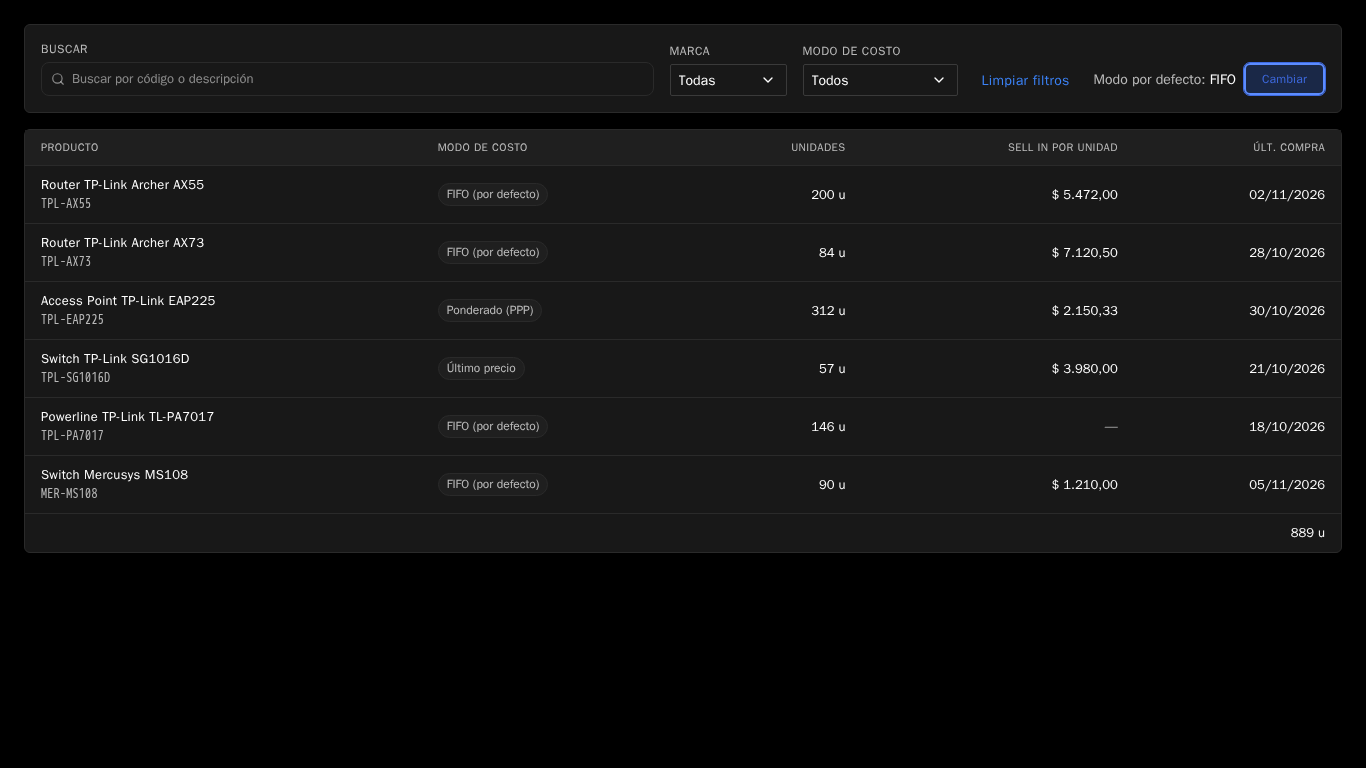
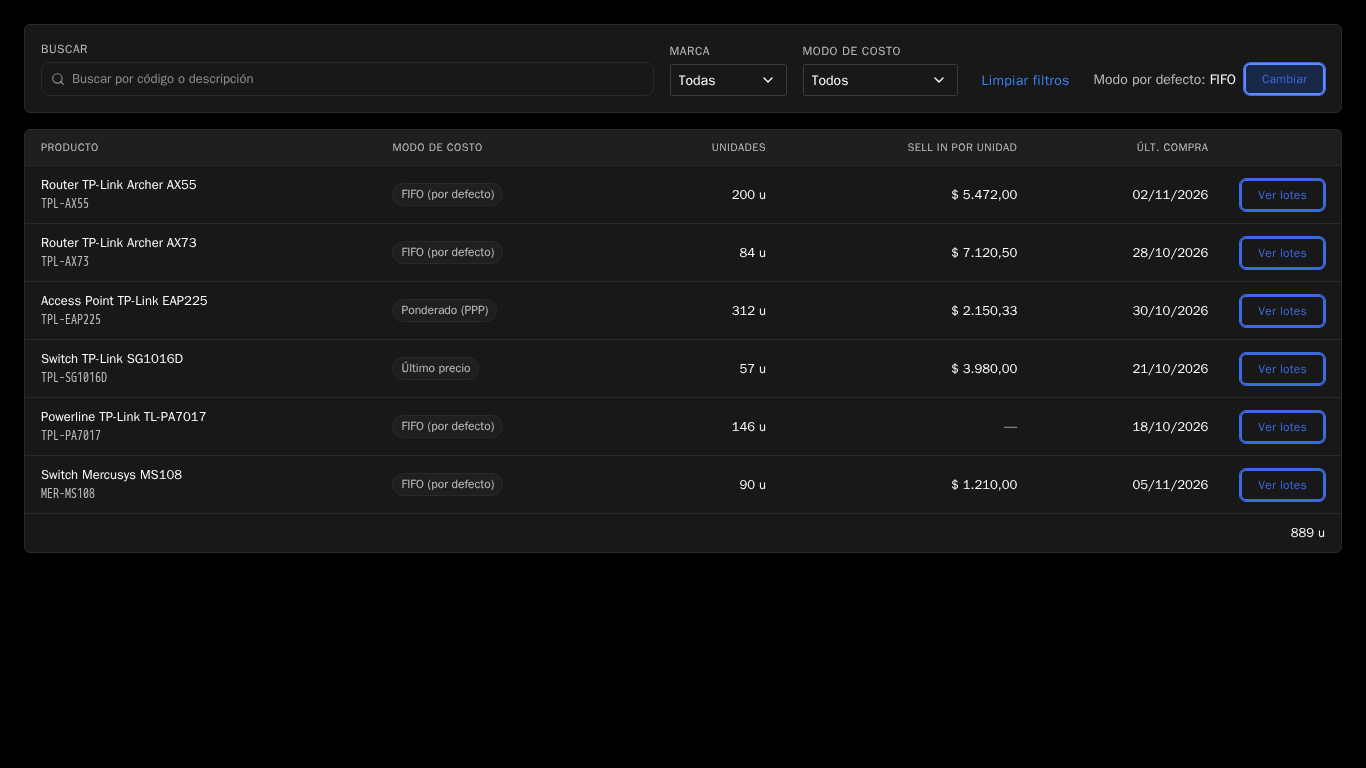
feat(sell-in): sortable columns and a visible Ver lotes action on the Productos tab
Each column header of the Productos list sorts it (ascending, then
descending; rows without sell in per unit last) and every row has a
'Ver lotes' button instead of the product name being a hidden button.

diff --git a/frontend/src/components/sellIn/SellInProductosCosto.jsx b/frontend/src/components/sellIn/SellInProductosCosto.jsx
@@ -1,4 +1,5 @@
 import { useEffect, useState } from 'react';
+import { ChevronDown, ChevronUp } from 'lucide-react';
 import SearchInput from '../SearchInput';
 import { usePermisos } from '../../contexts/PermisosContext';
 import { sellInLotesAPI } from '../../services/sellInAPI';
@@ -32,6 +33,21 @@ const normalizar = (texto) =>
 
 const comparaTexto = (a, b) => a.localeCompare(b, 'es', { sensitivity: 'base' });
 
+/** The sortable columns: how each one compares two rows; a row with no value goes last in both directions. */
+const COLUMNAS = [
+  { key: 'producto', label: 'Producto', valor: (x) => x.descripcion ?? x.codigo ?? '', compara: comparaTexto },
+  { key: 'modo', label: 'Modo de costo', valor: (x) => modoLabel(x.modo), compara: comparaTexto },
+  { key: 'unidades', label: 'Unidades', num: true, valor: (x) => x.unidades, compara: (a, b) => a - b },
+  {
+    key: 'sell_in_unit',
+    label: 'Sell in por unidad',
+    num: true,
+    valor: (x) => (x.sell_in_unit == null ? null : Number(x.sell_in_unit)),
+    compara: (a, b) => a - b,
+  },
+  { key: 'ultima_compra', label: 'Últ. compra', num: true, valor: (x) => x.ultima_compra, compara: comparaTexto },
+];
+
 function filtrar(productos, filtros) {
   const q = normalizar(filtros.q.trim());
   return productos.filter(
@@ -40,6 +56,18 @@ function filtrar(productos, filtros) {
       (!filtros.marca || x.marca === filtros.marca) &&
       (!filtros.modo || (filtros.modo === SIN_MODO ? x.modo == null : x.modo === filtros.modo)),
   );
+}
+
+function ordenar(productos, orden) {
+  const columna = COLUMNAS.find((c) => c.key === orden?.key);
+  if (!columna) return productos;
+  const signo = orden.dir === 'asc' ? 1 : -1;
+  return [...productos].sort((a, b) => {
+    const va = columna.valor(a);
+    const vb = columna.valor(b);
+    if (va == null || vb == null) return (va == null) - (vb == null);
+    return signo * columna.compara(va, vb);
+  });
 }
 
 /** The saved default mode, read on mount and with each `version`; null while unread or when it cannot be read. */
@@ -63,7 +91,7 @@ function useModoPorDefecto(version) {
  * units left in its lots, with its "Modo de costo", units, what the next sale takes per unit and its latest purchase,
  * and the total units under it. A toolbar searches by código/descripción and filters by Marca and Modo de costo,
  * client side: the endpoint already computes the whole list in a fixed number of queries, so a server filter would not
- * save it work. A row's product opens its lots and cost mode (`onVer(fila)`). The toolbar also
+ * save it work. The headers sort; "Ver lotes" opens a product's lots and cost mode (`onVer(fila)`). The toolbar also
  * shows the default mode and, for an admin, "Cambiar" opens its modal. A new `version` reads both again.
  *
  * @param {object} props
@@ -75,6 +103,7 @@ export default function SellInProductosCosto({ onVer, version = 0 }) {
   const [read, setRead] = useState({ status: 'loading', productos: [] });
   const [attempt, setAttempt] = useState(0);
   const [filtros, setFiltros] = useState(FILTROS_VACIOS);
+  const [orden, setOrden] = useState(null); // null: the server's order (description, then code)
   const [porDefecto, setPorDefecto] = useModoPorDefecto(version);
   const [editandoDefecto, setEditandoDefecto] = useState(false);
 
@@ -90,6 +119,8 @@ export default function SellInProductosCosto({ onVer, version = 0 }) {
   }, [version, attempt]);
 
   const cambiarFiltros = (cambios) => setFiltros((prev) => ({ ...prev, ...cambios }));
+  const ordenarPor = (key) =>
+    setOrden((prev) => (prev?.key === key ? { key, dir: prev.dir === 'asc' ? 'desc' : 'asc' } : { key, dir: 'asc' }));
 
   if (read.status === 'loading' && read.productos.length === 0) {
     return (
@@ -120,7 +151,7 @@ export default function SellInProductosCosto({ onVer, version = 0 }) {
   }
 
   const marcas = [...new Set(read.productos.map((x) => x.marca).filter(Boolean))].sort(comparaTexto);
-  const visibles = filtrar(read.productos, filtros);
+  const visibles = ordenar(filtrar(read.productos, filtros), orden);
   const total = visibles.reduce((sum, x) => sum + x.unidades, 0);
 
   return (
@@ -186,16 +217,29 @@ export default function SellInProductosCosto({ onVer, version = 0 }) {
           <table className={styles.table} aria-label="Productos con lotes de sell in">
             <thead>
               <tr>
-                <th scope="col">Producto</th>
-                <th scope="col">Modo de costo</th>
-                <th scope="col" className={styles.num}>
-                  Unidades
-                </th>
-                <th scope="col" className={styles.num}>
-                  Sell in por unidad
-                </th>
-                <th scope="col" className={styles.num}>
-                  Últ. compra
+                {COLUMNAS.map((columna) => {
+                  const activa = orden?.key === columna.key;
+                  return (
+                    <th
+                      key={columna.key}
+                      scope="col"
+                      className={columna.num ? styles.num : undefined}
+                      aria-sort={activa ? (orden.dir === 'asc' ? 'ascending' : 'descending') : undefined}
+                    >
+                      <button type="button" className={styles.sort} onClick={() => ordenarPor(columna.key)}>
+                        {columna.label}
+                        {activa &&
+                          (orden.dir === 'asc' ? (
+                            <ChevronUp size={12} aria-hidden="true" />
+                          ) : (
+                            <ChevronDown size={12} aria-hidden="true" />
+                          ))}
+                      </button>
+                    </th>
+                  );
+                })}
+                <th scope="col" className={styles.acciones}>
+                  <span className={styles.srOnly}>Acciones</span>
                 </th>
               </tr>
             </thead>
@@ -203,15 +247,10 @@ export default function SellInProductosCosto({ onVer, version = 0 }) {
               {visibles.map((fila) => (
                 <tr key={fila.item_id}>
                   <td>
-                    <button
-                      type="button"
-                      className={styles.producto}
-                      aria-label={`Ver lotes y modo de costo de ${fila.descripcion ?? fila.codigo}`}
-                      onClick={() => onVer(fila)}
-                    >
+                    <span className={styles.producto}>
                       <span className={styles.nombre}>{fila.descripcion}</span>
                       <span className={styles.codigo}>{fila.codigo}</span>
-                    </button>
+                    </span>
                   </td>
                   <td>
                     <span className={styles.pill}>{modoLabel(fila.modo)}</span>
@@ -219,6 +258,16 @@ export default function SellInProductosCosto({ onVer, version = 0 }) {
                   <td className={styles.num}>{formatEntero(fila.unidades)} u</td>
                   <td className={styles.num}>{formatMonto(fila.sell_in_unit, 'ARS')}</td>
                   <td className={styles.num}>{fecha(fila.ultima_compra)}</td>
+                  <td className={styles.acciones}>
+                    <button
+                      type="button"
+                      className="btn-tesla outline sm"
+                      aria-label={`Ver lotes y modo de costo de ${fila.descripcion ?? fila.codigo}`}
+                      onClick={() => onVer(fila)}
+                    >
+                      Ver lotes
+                    </button>
+                  </td>
                 </tr>
               ))}
             </tbody>

diff --git a/frontend/src/components/sellIn/SellInProductosCosto.test.jsx b/frontend/src/components/sellIn/SellInProductosCosto.test.jsx
@@ -3,7 +3,7 @@
  * its "Modo de costo" (FIFO by default), units, the next sale's sell in per unit and its latest purchase, read in one
  * request for the whole list. Owner, 2026-11-10: "No tengo botones, filtros, nada, cómo lo uso?" / "no tengo el modal
  * para setear el fifo, ppp, o ultimo ingreso como default": a toolbar with the default mode, search, Marca and Modo
- * filters (client side: the endpoint already reads the whole list).
+ * filters (client side: the endpoint already reads the whole list), sortable columns and a visible "Ver lotes".
  */
 import { describe, it, expect, vi, beforeEach } from 'vitest';
 import { render, screen, within, waitFor } from '@testing-library/react';
@@ -73,9 +73,9 @@ describe('SellInProductosCosto', () => {
     const t = await tabla();
     const filas = within(t).getAllByRole('row').slice(1);
     expect(filas.map((x) => within(x).getAllByRole('cell').map((c) => c.textContent))).toEqual([
-      ['Router TP-Link Archer AX55TPL-AX55', 'FIFO (por defecto)', '200 u', '$ 5.472,00', '02/11/2026'],
-      ['Access Point TP-Link EAP225TPL-EAP225', 'Ponderado (PPP)', '312 u', '$ 1.200,00', '15/10/2026'],
-      ['Switch Mercusys MS108MER-MS108', 'Último precio', '57 u', '—', '05/11/2026'],
+      ['Router TP-Link Archer AX55TPL-AX55', 'FIFO (por defecto)', '200 u', '$ 5.472,00', '02/11/2026', 'Ver lotes'],
+      ['Access Point TP-Link EAP225TPL-EAP225', 'Ponderado (PPP)', '312 u', '$ 1.200,00', '15/10/2026', 'Ver lotes'],
+      ['Switch Mercusys MS108MER-MS108', 'Último precio', '57 u', '—', '05/11/2026', 'Ver lotes'],
     ]);
     expect(within(t).getAllByRole('columnheader').map((x) => x.textContent)).toEqual([
       'Producto',
@@ -83,16 +83,19 @@ describe('SellInProductosCosto', () => {
       'Unidades',
       'Sell in por unidad',
       'Últ. compra',
+      'Acciones',
     ]);
     expect(screen.getByText('569 u')).toBeInTheDocument();
     expect(sellInLotesAPI.productos).toHaveBeenCalledTimes(1);
   });
 
-  it('opens a product from its row', async () => {
+  it('opens a product from its visible "Ver lotes" action', async () => {
     const onVer = vi.fn();
     render(<SellInProductosCosto onVer={onVer} />);
 
-    await userEvent.click(await screen.findByRole('button', { name: 'Ver lotes y modo de costo de Switch Mercusys MS108' }));
+    const boton = await screen.findByRole('button', { name: 'Ver lotes y modo de costo de Switch Mercusys MS108' });
+    expect(boton).toHaveTextContent('Ver lotes');
+    await userEvent.click(boton);
 
     expect(onVer).toHaveBeenCalledWith(PRODUCTOS[2]);
   });
@@ -161,6 +164,29 @@ describe('SellInProductosCosto', () => {
 
       await user.click(screen.getByRole('button', { name: 'Limpiar filtros' }));
       expect(nombres(await tabla())).toHaveLength(3);
+    });
+  });
+
+  describe('sorting', () => {
+    it.each([
+      ['Producto', ['Access Point', 'Router', 'Switch'], ['Switch', 'Router', 'Access Point']],
+      ['Modo de costo', ['Router', 'Access Point', 'Switch'], ['Switch', 'Access Point', 'Router']],
+      ['Unidades', ['Switch', 'Router', 'Access Point'], ['Access Point', 'Router', 'Switch']],
+      ['Sell in por unidad', ['Access Point', 'Router', 'Switch'], ['Router', 'Access Point', 'Switch']],
+      ['Últ. compra', ['Access Point', 'Router', 'Switch'], ['Switch', 'Router', 'Access Point']],
+    ])('sorts by %s, ascending then descending (no sell in last)', async (columna, asc, desc) => {
+      const user = userEvent.setup();
+      render(<SellInProductosCosto onVer={vi.fn()} />);
+      const t = await tabla();
+      const primeras = () => nombres(t).map((x) => x.split(' ').slice(0, x.startsWith('Access') ? 2 : 1).join(' '));
+
+      await user.click(within(t).getByRole('button', { name: columna }));
+      expect(primeras()).toEqual(asc);
+      expect(within(t).getByRole('columnheader', { name: columna })).toHaveAttribute('aria-sort', 'ascending');
+
+      await user.click(within(t).getByRole('button', { name: columna }));
+      expect(primeras()).toEqual(desc);
+      expect(within(t).getByRole('columnheader', { name: columna })).toHaveAttribute('aria-sort', 'descending');
     });
   });
 

diff --git a/frontend/src/components/sellIn/SellInProductosCosto.module.css b/frontend/src/components/sellIn/SellInProductosCosto.module.css
@@ -56,7 +56,8 @@
   text-decoration: underline;
 }
 
-.limpiar:focus-visible {
+.limpiar:focus-visible,
+.sort:focus-visible {
   outline: 2px solid var(--cf-accent-blue);
   outline-offset: 2px;
   border-radius: var(--radius-sm);
@@ -82,13 +83,51 @@
   color: var(--cf-text-primary);
 }
 
+.sort {
+  display: inline-flex;
+  align-items: center;
+  gap: var(--space-1);
+  padding: 0;
+  font: inherit;
+  letter-spacing: inherit;
+  text-transform: inherit;
+  color: inherit;
+  background: none;
+  border: 0;
+  cursor: pointer;
+}
+
+.sort:hover {
+  color: var(--cf-text-primary);
+}
+
+.acciones {
+  width: 1%;
+  text-align: right;
+  white-space: nowrap;
+}
+
+.srOnly {
+  position: absolute;
+  width: 1px;
+  height: 1px;
+  padding: 0;
+  margin: -1px;
+  overflow: hidden;
+  clip: rect(0, 0, 0, 0);
+  white-space: nowrap;
+  border: 0;
+}
+
 .card {
   background: var(--cf-bg-card);
   border: 1px solid var(--cf-border-default);
   border-radius: var(--radius-md);
 }
 
+/* Positioned so the visually hidden "Acciones" header scrolls with the table instead of widening the page. */
 .scroller {
+  position: relative;
   overflow-x: auto;
 }
 
@@ -133,23 +172,6 @@
   display: flex;
   flex-direction: column;
   gap: 2px;
-  padding: 0;
-  font: inherit;
-  text-align: left;
-  color: var(--cf-text-primary);
-  background: none;
-  border: none;
-  cursor: pointer;
-}
-
-.producto:hover .nombre {
-  text-decoration: underline;
-}
-
-.producto:focus-visible {
-  outline: 2px solid var(--cf-accent-blue);
-  outline-offset: 2px;
-  border-radius: var(--radius-base);
 }
 
 .codigo {

diff --git a/frontend/src/test/visual/sellInProductosCosto.visual.test.jsx b/frontend/src/test/visual/sellInProductosCosto.visual.test.jsx
@@ -1,6 +1,6 @@
 /**
  * Sell in's Productos list -- real CSS, real Chromium: at desktop width the toolbar (search, Marca, Modo de costo,
- * Limpiar filtros and the default mode with "Cambiar") is one row and the five columns fit the card
+ * Limpiar filtros and the default mode with "Cambiar") is one row and the columns with "Ver lotes" fit the card
  * without a horizontal scroll, in light and dark, and "Cambiar" opens the default-mode modal; at phone width only the
  * table scrolls, never the page.
  *

diff --git a/frontend/src/ayuda/sell-in-sell-out.md b/frontend/src/ayuda/sell-in-sell-out.md
@@ -95,7 +95,9 @@ Arriba de la lista hay una barra:
 
 El total de unidades de abajo suma solo los productos que se ven. Si ningún producto cumple los filtros, la lista lo dice.
 
-Tocá el nombre de un producto para abrir su **Costo de sell in**: sus lotes y la sección **Modo de costo**, donde se cambia el modo. Al confirmar un cambio, la lista se actualiza sola.
+Tocá el título de una columna (**Producto**, **Modo de costo**, **Unidades**, **Sell in por unidad** o **Últ. compra**) para ordenar por ella; un segundo toque invierte el orden. Los productos sin **Sell in por unidad** van siempre al final.
+
+**Ver lotes**, al final de cada fila, abre el **Costo de sell in** del producto: sus lotes y la sección **Modo de costo**, donde se cambia el modo. Al confirmar un cambio, la lista se actualiza sola.
 
 ### Modo de costo de un producto
 
@@ -185,7 +187,7 @@ Un **tactical** es un programa de una marca: sell in baja el costo, sell out sum
 
 ## Filtros y columnas
 
-Tacticals: tipo, marca, moneda, estado, vigencia y búsqueda. Grupos: nombre, filtros, productos alcanzados y campañas que lo usan. Productos: búsqueda por código o descripción, marca y modo de costo; columnas producto, modo de costo, unidades, sell in por unidad y última compra.
+Tacticals: tipo, marca, moneda, estado, vigencia y búsqueda. Grupos: nombre, filtros, productos alcanzados y campañas que lo usan. Productos: búsqueda por código o descripción, marca y modo de costo; columnas producto, modo de costo, unidades, sell in por unidad y última compra, todas ordenables.
 
 ## Botones y acciones
 
@@ -196,6 +198,7 @@ Tacticals: tipo, marca, moneda, estado, vigencia y búsqueda. Grupos: nombre, fi
 - **Renovar** (acciones de una fila de Tacticals): abre **Nuevo tactical** cargado con ese tactical, con fechas nuevas por elegir, sus tiendas y su modo de tope.
 - **Anular** (acciones de una fila de Tacticals): anula el tactical con todas sus líneas, después de confirmar.
 - **Ver ventas** (en cada línea de un tactical): abre al costado lo que cargó esa línea, solo para mirar.
+- **Ver lotes** (pestaña Productos, en cada fila): abre los lotes y el modo de costo del producto.
 - **Cambiar** (pestaña Productos, al lado de **Modo por defecto**; solo administradores): cambia con qué modo abre el selector de modo de costo.
 - **Actualizar**: recarga datos.
 

diff --git a/frontend/src/novedades/2026-11-10-sell-in-productos-ordenar-ver-lotes.md b/frontend/src/novedades/2026-11-10-sell-in-productos-ordenar-ver-lotes.md
@@ -1,0 +1,10 @@
+# Sell in → Productos: ordenar columnas y botón Ver lotes
+
+Área: Sell in / Sell out
+
+## Resumen ejecutivo
+
+En la pestaña **Productos** de Sell in / Sell out las columnas se ordenan y cada producto tiene un botón para abrir sus lotes.
+
+- Tocá el título de una columna (**Producto**, **Modo de costo**, **Unidades**, **Sell in por unidad** o **Últ. compra**) para ordenar por ella; otro toque invierte el orden. Los productos sin sell in por unidad quedan al final.
+- Cada fila tiene **Ver lotes**, que abre los lotes y el modo de costo del producto.
